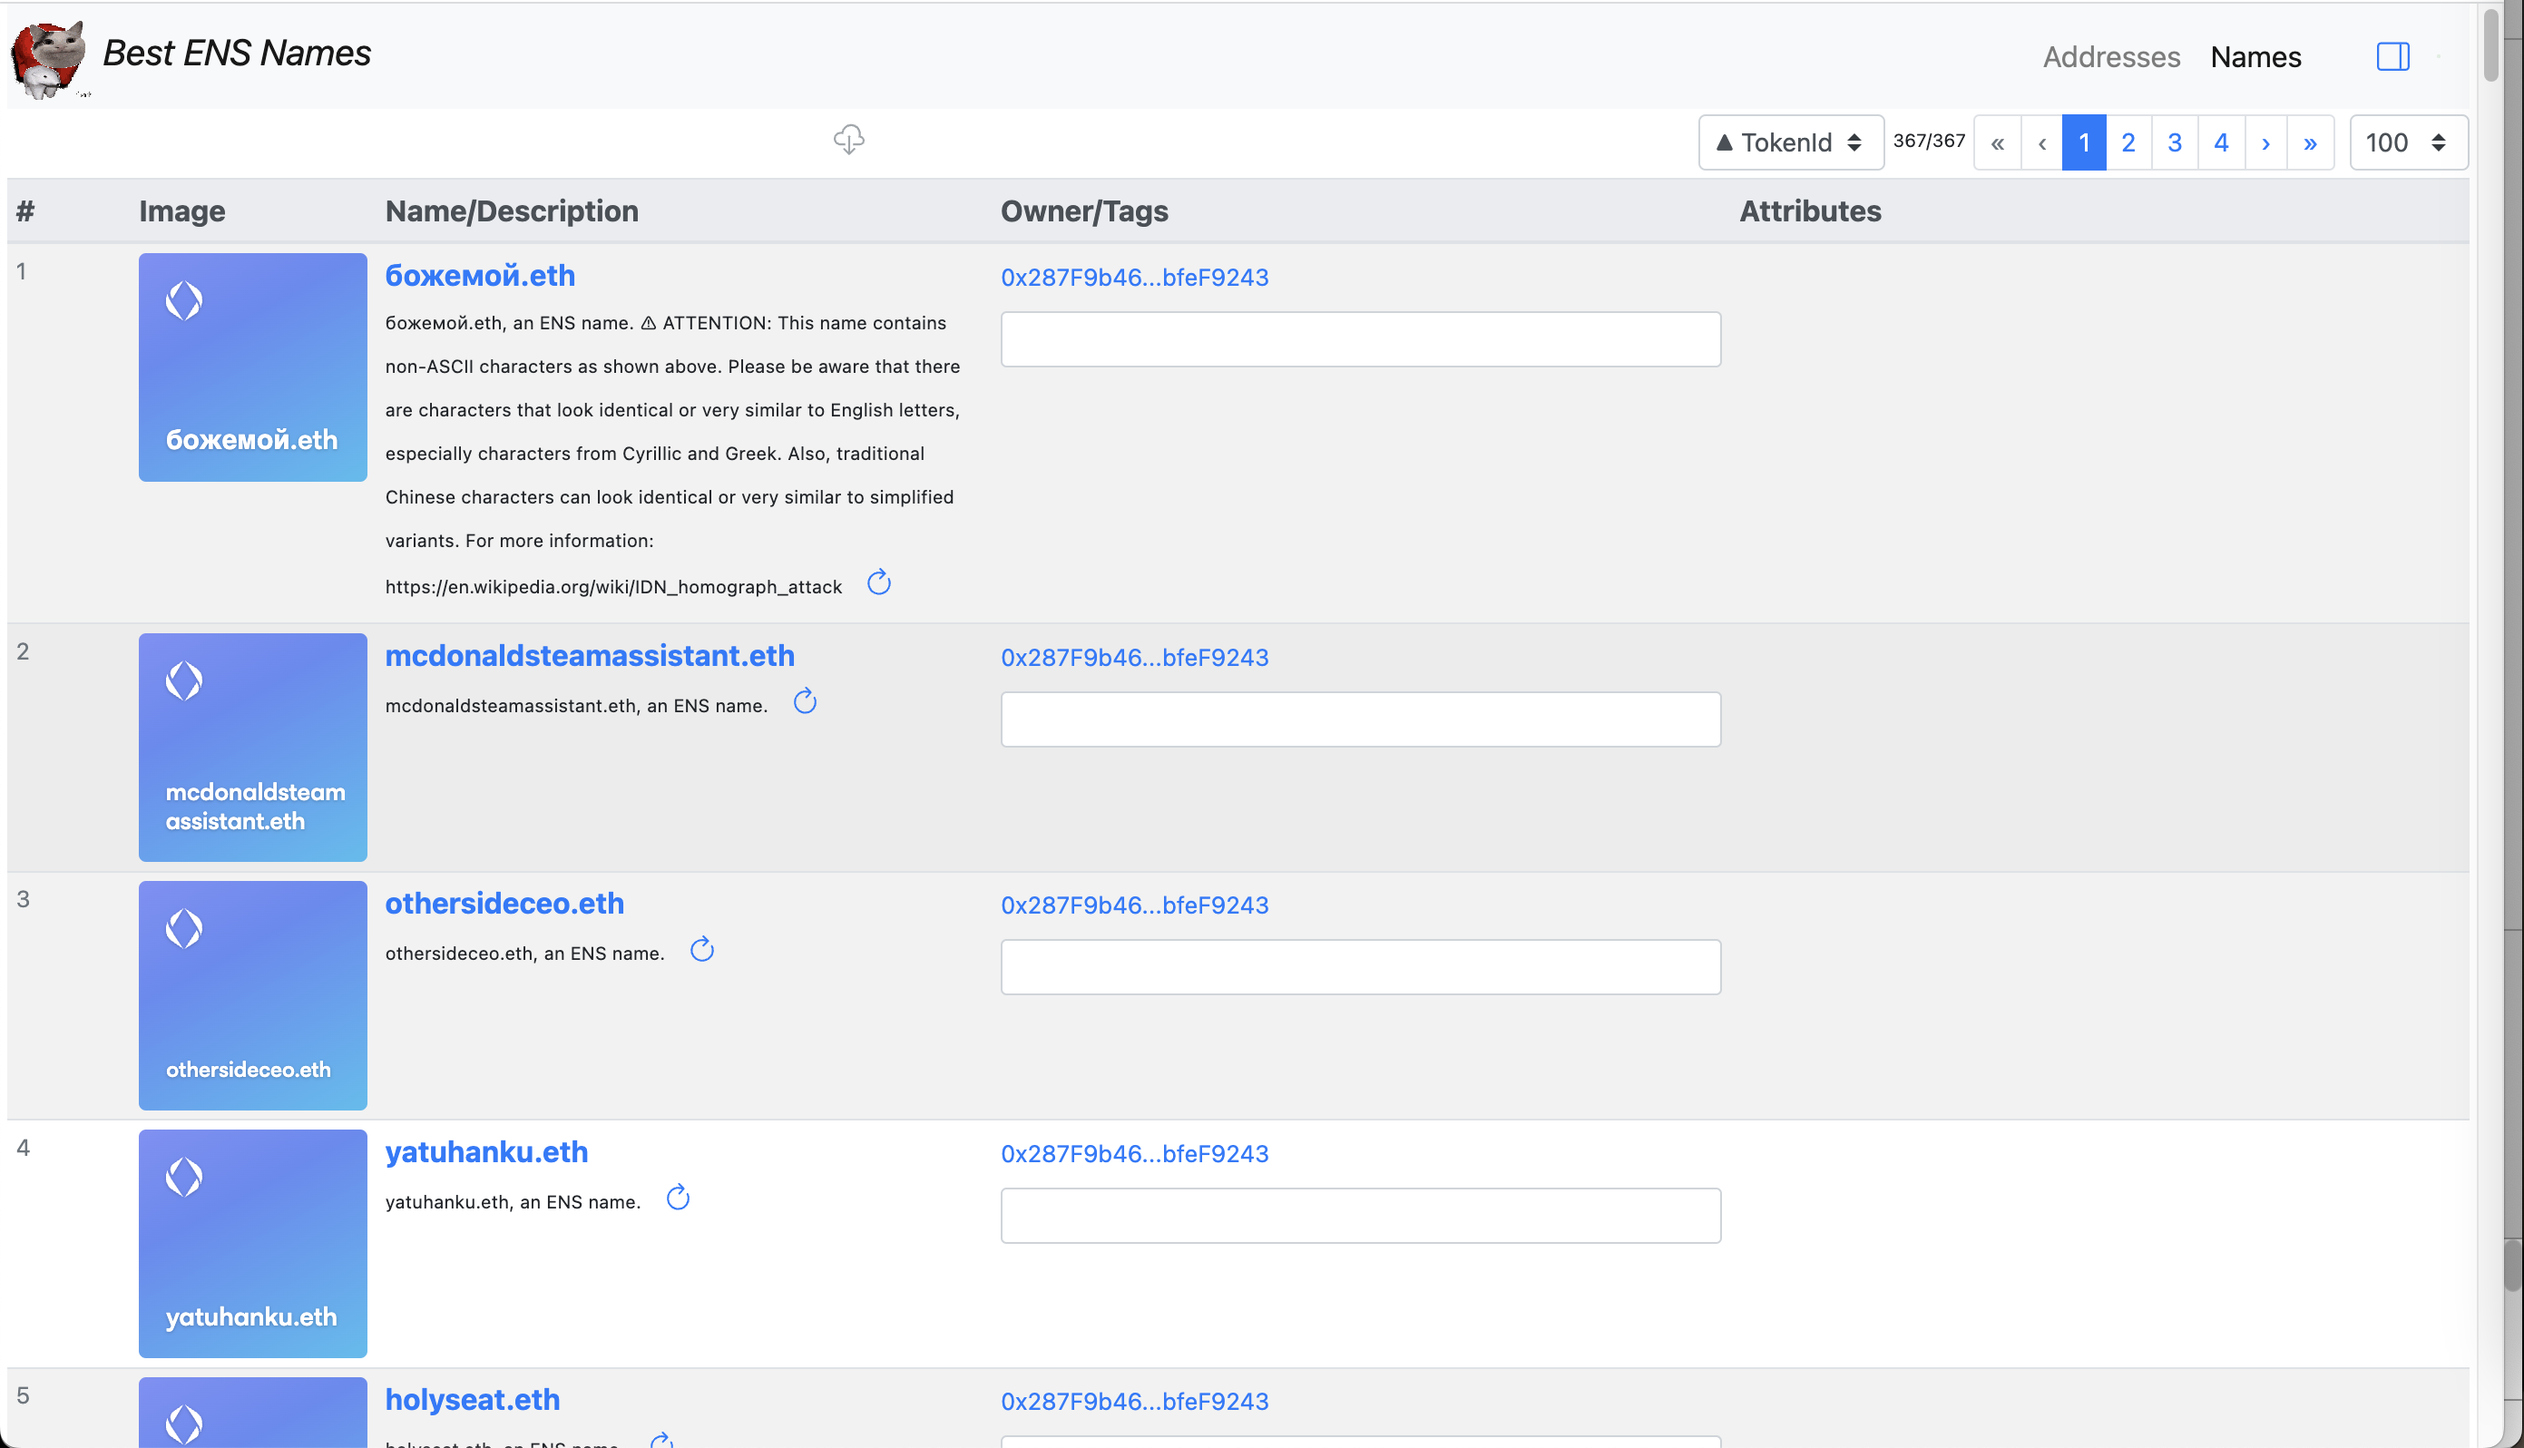
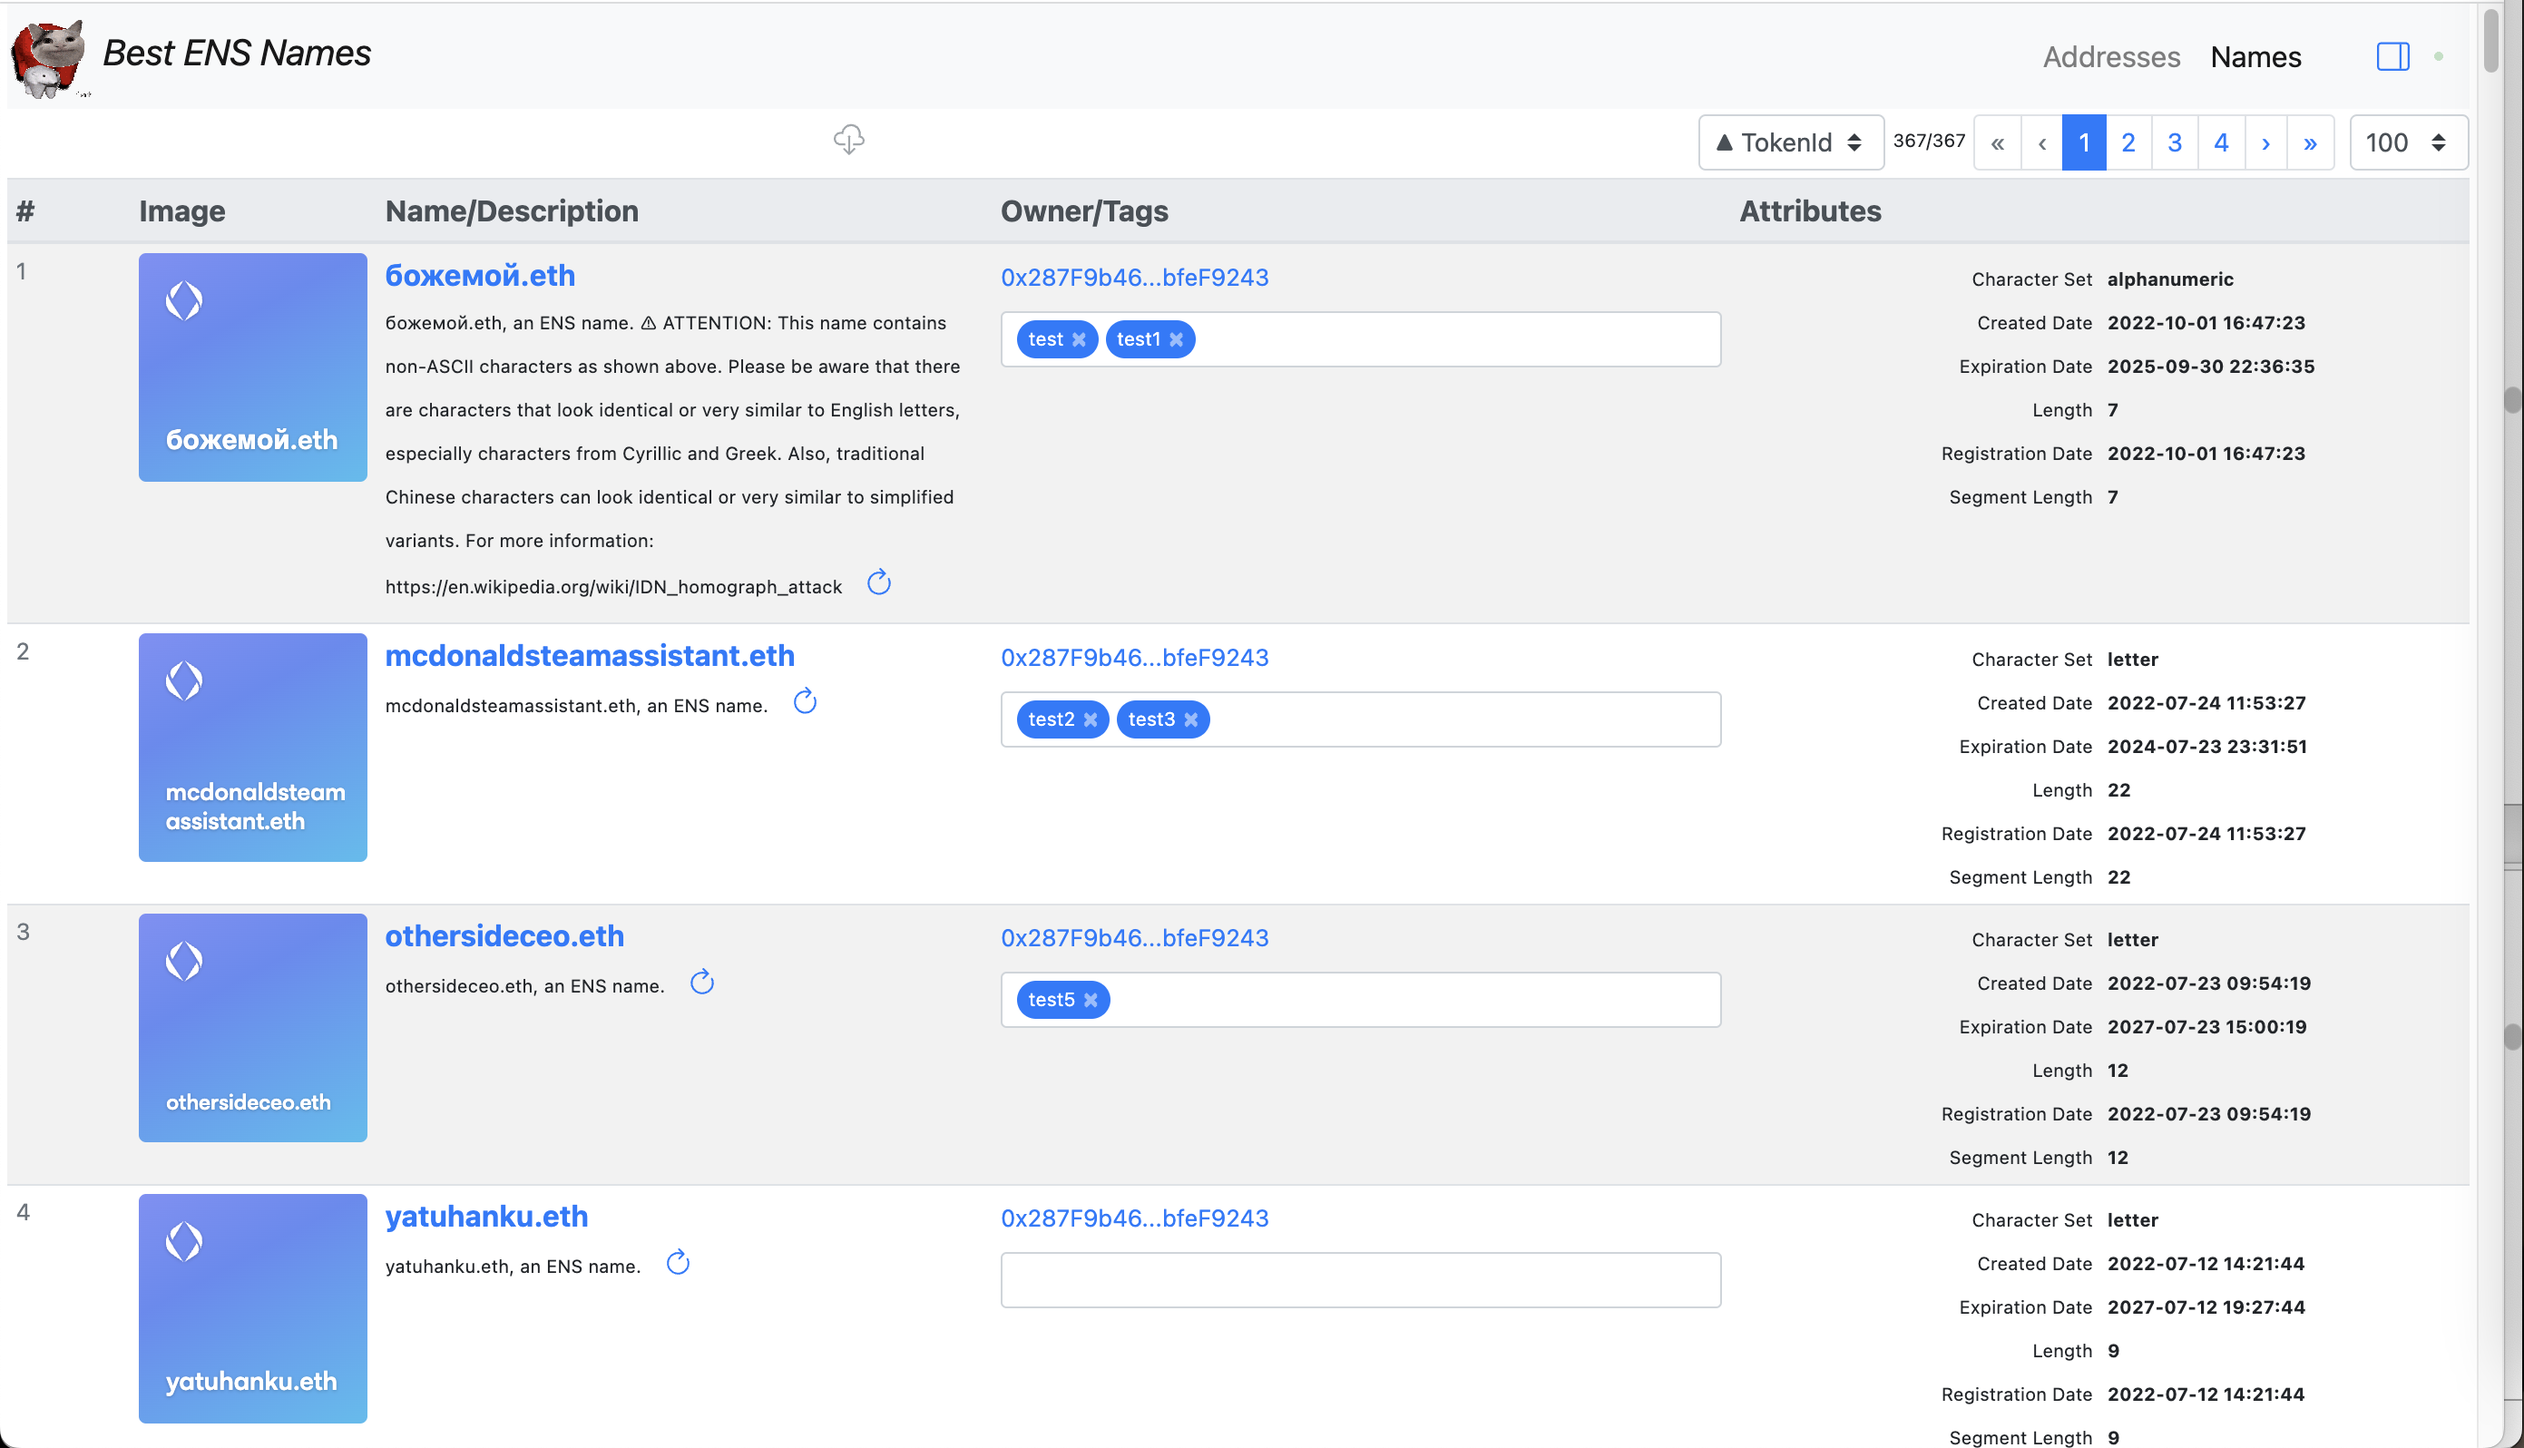
tidy

diff --git a/docs/names.js b/docs/names.js
@@ -152,7 +152,7 @@ const Names = {
                   {{ data.item.description }}
                 </font>
                 <font size="-2">
-                  <!-- <b-form-tags size="sm" @input="saveTokenTag({ chainId, contract: selectedCollection, tokenId: data.item.tokenId, tags: $event })" v-model="data.item.tags" tag-variant="primary" tag-pills separator=" " v-b-popover.hover="'ENTER NEW TAGS'" placeholder="" class="ml-0 mt-1 mw-100"></b-form-tags> -->
+                  <!-- <b-form-tags size="sm" @input="saveTokenTag({ chainId, contract: data.item.contract, tokenId: data.item.tokenId, tags: $event })" v-model="data.item.tags" tag-variant="primary" tag-pills separator=" " v-b-popover.hover="'ENTER NEW TAGS'" placeholder="" class="ml-0 mt-1 mw-100"></b-form-tags> -->
                 </font>
                 <b-button size="sm" @click="requestReservoirAPITokenMetadataRefresh(data.item)" variant="link" v-b-popover.hover.top="'Request Reservoir API Metadata Refresh'"><b-icon-arrow-clockwise shift-v="+1" font-scale="1.2"></b-icon-arrow-clockwise></b-button>
               </template>
@@ -161,7 +161,7 @@ const Names = {
                 <b-link :href="'https://etherscan.io/address/' + data.item.owner" target="_blank">
                   <font size="-1">{{ nameOrAddress(data.item.owner) }}</font>
                 </b-link>
-                <b-form-tags size="sm" @input="saveTokenTag({ chainId, contract: selectedCollection, tokenId: data.item.tokenId, tags: $event })" v-model="data.item.tags" tag-variant="primary" tag-pills separator=" " v-b-popover.hover="'Enter tags'" placeholder="" class="mt-2"></b-form-tags>
+                <b-form-tags size="sm" @input="saveTokenTag({ chainId, contract: data.item.contract, tokenId: data.item.tokenId, tags: $event })" v-model="data.item.tags" tag-variant="primary" tag-pills separator=" " v-b-popover.hover="'Enter tags'" placeholder="" class="mt-2"></b-form-tags>
               </template>
 
               <template #cell(attributes)="data">
@@ -352,7 +352,7 @@ const Names = {
             name: token.name,
             description: token.description,
             expiry: token.expiry,
-            attributes: token.attribute,
+            attributes: token.attributes,
             image: token.image,
             owner: token.owner,
             tags: token.tags,

diff --git a/docs/data.js b/docs/data.js
@@ -538,7 +538,7 @@ const dataModule = {
       }
     },
     saveTokenTag(state, info) {
-      logInfo("dataModule", "mutations.saveTokenTag info: " + JSON.stringify(info, null, 2));
+      // logInfo("dataModule", "mutations.saveTokenTag info: " + JSON.stringify(info, null, 2));
       if (state.tokens[info.chainId] && state.tokens[info.chainId][info.contract] && state.tokens[info.chainId][info.contract][info.tokenId]) {
         Vue.set(state.tokens[info.chainId][info.contract][info.tokenId], 'tags', info.tags);
       }
